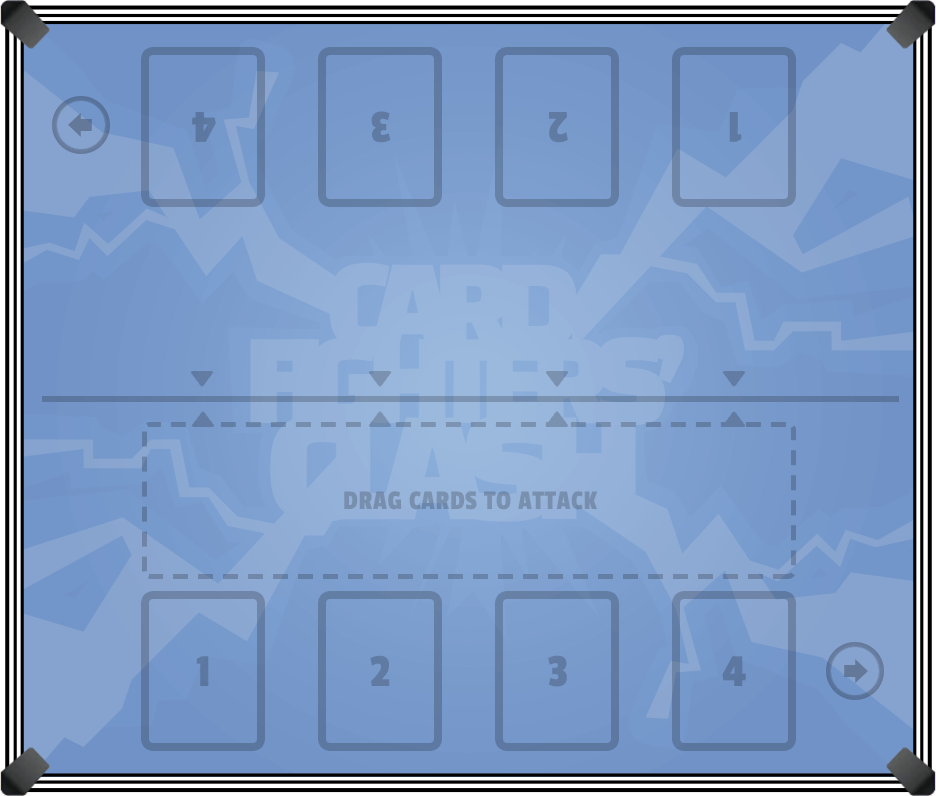
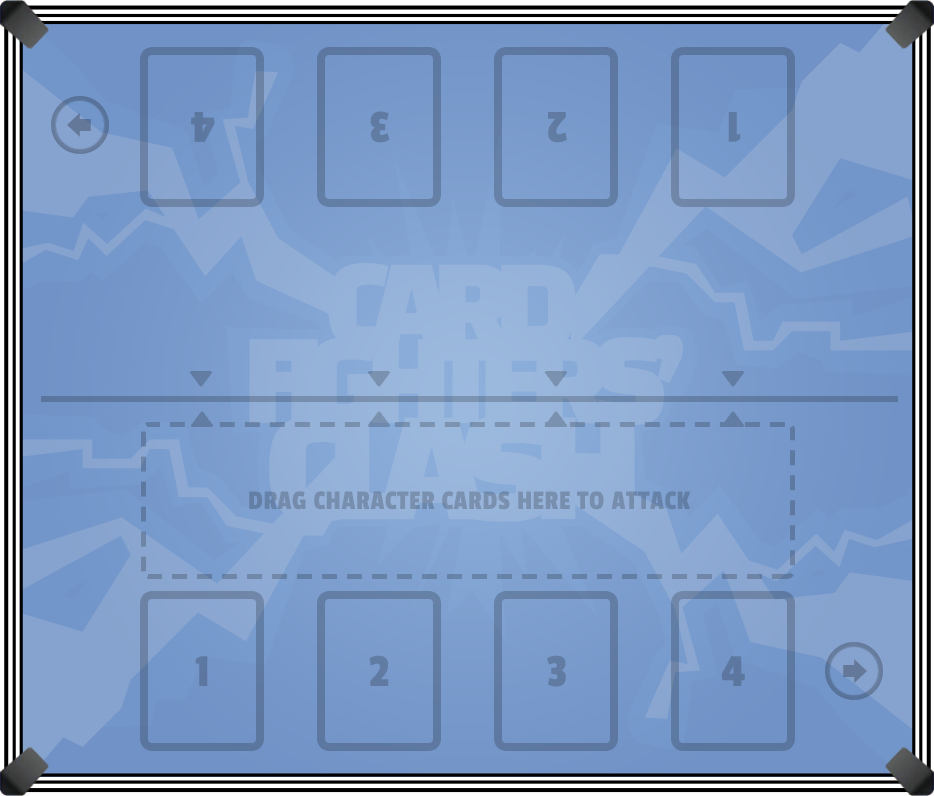
Improve hints of bg images

diff --git a/o8g/Scripts/windows.py b/o8g/Scripts/windows.py
@@ -37,7 +37,7 @@ def showWelcomeScreen(group = None, x = 0, y = 0):
    buttons = ["Close", "Do not show again"]
    msg = """        Welcome to Card Fighters' Clash!\n
 Here you will find useful information to get started with the game.
-Have a good battle and thanks for playing!"""
+Enjoy the battle and thanks for playing!"""
    choice = askChoice(msg, choiceList, colorsList, buttons)
       
    if choice == 1:
